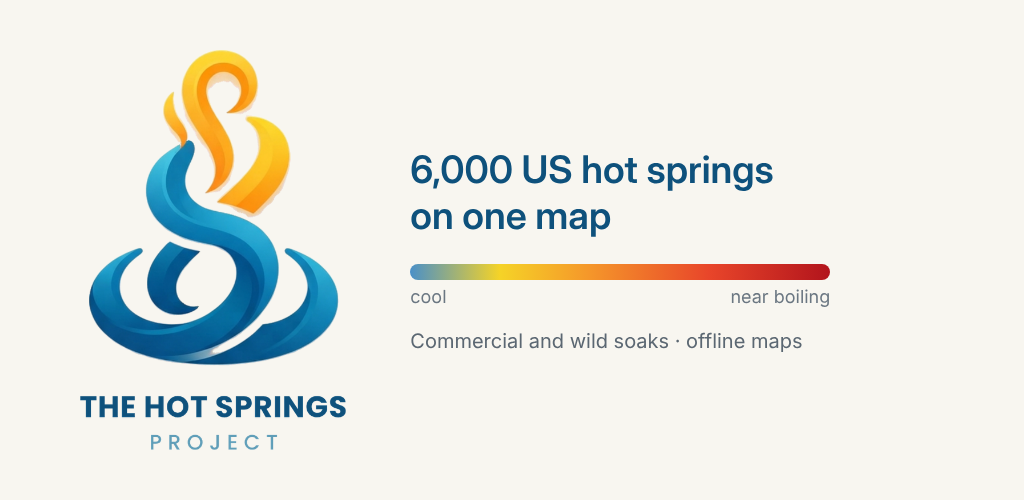
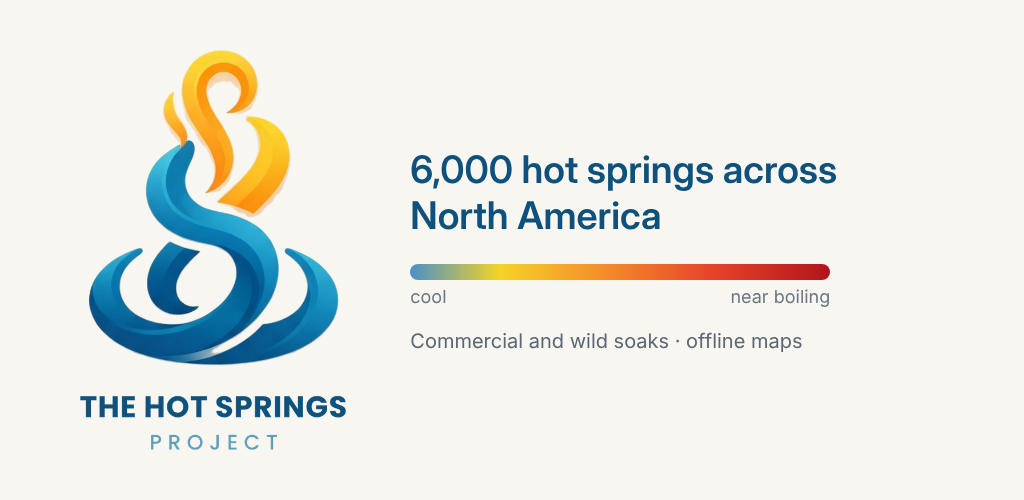
North America wording: store text, feature graphic, app header and metadata; overview screenshot shows Canada
Claude-Session: https://claude.ai/code/session_019mqkiXQpZaWmPveMjWpyyF

Changed region(s): [[0.4062, 0.3, 0.8125, 0.48]]

diff --git a/index.html b/index.html
@@ -3,8 +3,8 @@
 <head>
 <meta charset="utf-8">
 <meta name="viewport" content="width=device-width, initial-scale=1, viewport-fit=cover">
-<title>The Hot Springs Project · US hot springs map</title>
-<meta name="description" content="Interactive map of thousands of US springs, hot to cool, from NOAA's Thermal Springs List, state geological surveys, the Water Quality Portal and USGS place names, with topo, satellite and street basemaps.">
+<title>The Hot Springs Project · North American hot springs map</title>
+<meta name="description" content="Interactive map of thousands of North American springs, hot to cool, from NOAA's Thermal Springs List, state geological surveys, the Water Quality Portal and USGS place names, with topo, satellite and street basemaps.">
 <link rel="icon" href="assets/favicon-32.png?v=4" sizes="32x32" type="image/png">
 <link rel="apple-touch-icon" href="assets/apple-touch-180.png?v=4">
 <link rel="manifest" href="manifest.webmanifest">
@@ -128,6 +128,6 @@
 </dialog>
 <script src="vendor/leaflet/leaflet.js"></script>
 <script src="config.js?v=13"></script>
-<script src="app.js?v=61"></script>
+<script src="app.js?v=62"></script>
 </body>
 </html>

diff --git a/app.js b/app.js
@@ -188,7 +188,7 @@
     SS_SRC = json.ss_sources || [];
     S.forEach(d => { if (d.f != null) d.cls = clsOf(d.f); });   // class follows the reading; springs listed only as boiling/hot/warm keep that label
     S.forEach(d => { d.rec = REC[recKey(d)] || null; });
-    const sub = document.querySelector('header .sub'); if (sub) sub.textContent = S.length.toLocaleString() + ' springs across the US and Canada · data: NOAA Thermal Springs List (1980), state and territorial geological surveys, USGS and Natural Resources Canada';
+    const sub = document.querySelector('header .sub'); if (sub) sub.textContent = S.length.toLocaleString() + ' springs across North America · data: NOAA Thermal Springs List (1980), state and territorial geological surveys, USGS and Natural Resources Canada';
     S.forEach(d => { d.noaaNoTemp = !d.added && !!d.ss && d.ss[4] === 1; });   // NOAA listed no reading, so the state survey's is shown
     // markers (hotter drawn on top)
     S.forEach(d => { d.known = !!(d.rec && (d.rec[0] === 'D' || d.rec[0] === 'W')); });

diff --git a/sw.js b/sw.js
@@ -3,7 +3,7 @@
    - Map tiles you have viewed are kept (up to TILE_MAX) so recently seen areas still draw offline.
    - Wikipedia/Commons text and photos are cached after first view.
    - Google Maps photos are never cached (Google's terms); they simply don't show offline. */
-const VERSION = 'wt-v69';
+const VERSION = 'wt-v70';
 const SHELL = 'shell-' + VERSION;
 const TILES = 'tiles-v2';
 const WIKI = 'wiki-v2';

diff --git a/tools/screenshots.py b/tools/screenshots.py
@@ -22,8 +22,8 @@ DEVICES = {
 
 # key, headline, detail line, basemap, view for portrait, view for landscape, hash, actions
 SCENES = [
-    ('overview', '6,000 US hot springs', 'Colored by water temperature, from cool to near boiling',
-     'dark', [41.5, -114.5, 4.5], [40.5, -112.5, 5.5], '', ['legend']),
+    ('overview', '6,000 hot springs across North America', 'Colored by water temperature, from cool to near boiling',
+     'dark', [46.0, -117.0, 3.6], [47.0, -114.0, 4.3], '', ['legend']),
     ('soaks', 'Find a place to soak', 'Commercial and wild soaking spots marked at a glance',
      'esritopo', [44.3, -115.3, 8], [44.2, -115.4, 8.5], '', ['legend', 'soak', 'results:wide']),
     ('detail', 'Everything about a spring', 'Temperature, land manager, photos and directions',

diff --git a/README.md b/README.md
@@ -1,6 +1,6 @@
 # The Hot Springs Project
 
-A map of hot springs across the United States and Canada.
+A map of hot springs across North America (the United States and Canada).
 
 An interactive map of US springs: the 1,661 thermal springs of NOAA's 1980 list (the data behind NOAA's retired NGDC hot springs viewer), thousands more from state geological surveys, the Nevada and New Mexico geological surveys and the Water Quality Portal, and an optional layer of about 33,000 named springs from USGS place names.
 
